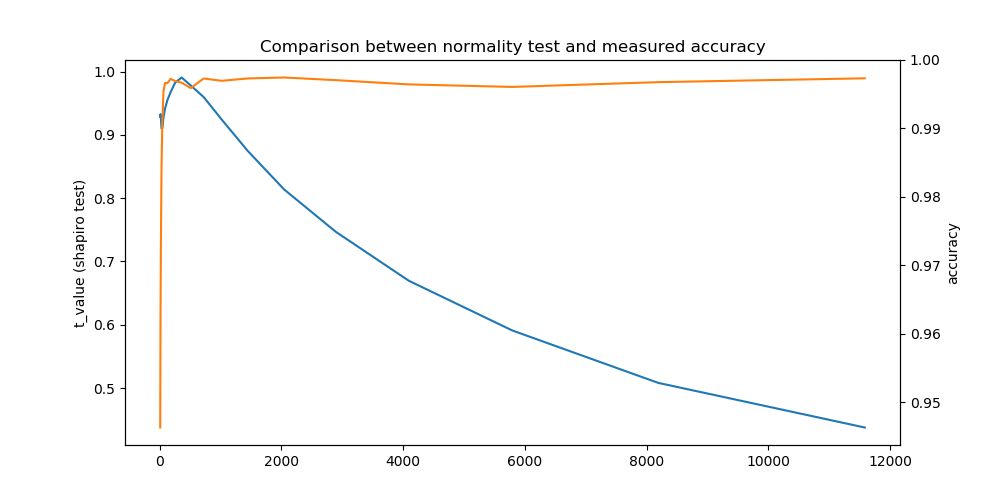
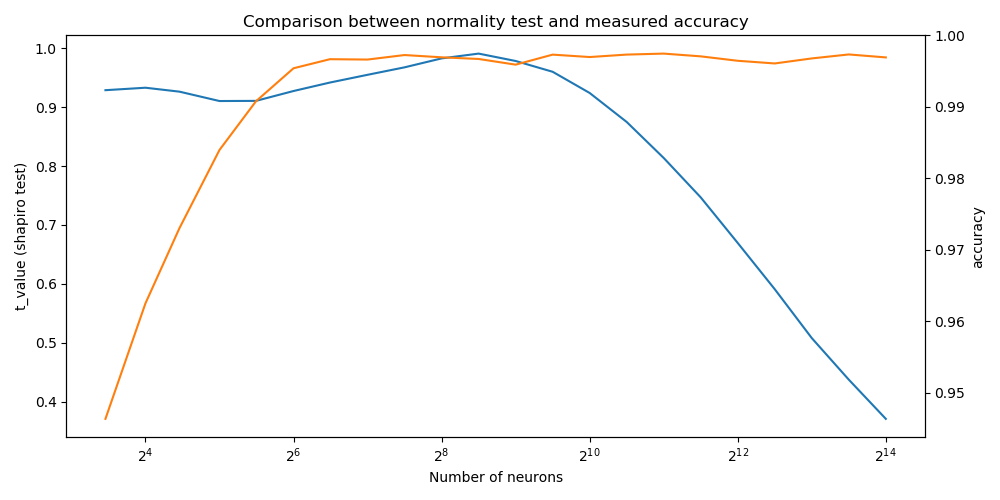
Added plots for mixture analysis

diff --git a/variance_metric.py b/variance_metric.py
@@ -10,6 +10,8 @@ import seaborn as sns
 import numpy as np
 import matplotlib.pyplot as plt
 import scipy
+from algorithms.exp_norm_mixture_fit import fit as fit_exp_norm
+from algorithms.digamma_mixture_fit import fit as fit_digamma
 
 from models.MNIST_1h import MNIST_1h
 
@@ -48,7 +50,7 @@ wrap = lambda x: x.cuda(async=True) if torch.is_tensor(x) and x.is_pinned() else
 unwrap = lambda x: x.cpu()
 
 def init_models(count=REPLICATES):
-    return [wrap(MNIST_1h(int(2**(i / 2)))) for i in range(7, 28) for _ in range(count)]
+    return [wrap(MNIST_1h(int(2**(i / 2)))) for i in range(8, 28) for _ in range(count)]
 
 def save_model(model, id):
     with open('/tmp/model-%s.data' % id, 'wb+') as f:
@@ -196,14 +198,43 @@ def plot_compare_shapiro_accuracy(activations, accuracies):
     b.plot(sizes, accuracies, color='C1')
     a.set_ylabel('t_value (shapiro test)')
     b.set_ylabel('accuracy')
-    plt.xlabel('Number of neurons')
+    plt.xscale('log', basex=2)
+    a.set_xlabel('Number of neurons')
     plt.title('Comparison between normality test and measured accuracy')
-    plot.tight_layout()
+    plt.tight_layout()
     plt.savefig('./plots/MNIST_1h_acc_vs_shapiro.png')
     plt.close()
 
+def plot_mixture_ratio(activations, accuracies):
+    n_acc = (accuracies - accuracies.min()) / (accuracies.max() - accuracies.min())
+    z_activations = [(a == 0).sum() / REPLICATES for a in activations]
+    nz_activations = [a[a != 0] for a in activations]
+    sizes = np.array([len(x) / REPLICATES for x in activations])
+    digamma_ratio = np.array([fit_digamma(x)[1] for x in nz_activations])
+    exp_norm_ratio = np.array([fit_exp_norm(x)[1] for x in nz_activations])
+    t_values = np.array([scipy.stats.shapiro(x)[0] for x in nz_activations])
+    plt.figure(figsize=(10, 5))
+    a = plt.gca()
+    b = a.twinx()
+    a.plot(sizes, digamma_ratio, color='C0', label='Digamma fitting')
+    a.plot(sizes, exp_norm_ratio, color='C1', label='Exp+Normal fitting')
+    a.plot(sizes, t_values, color='C2', label='Shapiro normality test')
+    a.plot(sizes, n_acc, color='C4', label='Normalized accuracy')
+    a.axhline(y = 0.025, color='C5', label='Arbitrary suggested threshold (p=0.05)')
+    a.legend(loc='bottom right')
+    b.plot(sizes, z_activations, color='C3', label='Dead neurons')
+    a.set_ylabel('Proportions')
+    b.set_ylabel('Number of dead neurons')
+    b.legend(loc='upper right')
+    plt.xscale('log', basex=2)
+    b.set_ylim((0, 20))
+    a.set_xlabel('Number of neurons')
+    plt.title('Comparison between multiple metrics')
+    plt.savefig('./plots/MNIST_1h_acc_vs_mixtures.png')
+    plt.close()
 
-if False and __name__ == '__main__':
+
+if __name__ == '__main__':
     models = init_models()
     train(models)
     activations = np.array(get_activations(models)).reshape(-1, REPLICATES)
@@ -215,3 +246,4 @@ if False and __name__ == '__main__':
     plot_distributions_around_sweet(activations)
     plot_dead_neurons(activations)
     plot_compare_shapiro_accuracy(activations, accuracies)
+    plot_mixture_ratio(activations, accuracies)

diff --git a/journal.md b/journal.md
@@ -133,6 +133,10 @@ If we look carefully at the distribution of the variance of activations we can s
 - [ ] Generate plots
 - [ ] Interpret and conclude
 
+# Interpretation 
+![Comparison of different metrics](/plots/MNIST_1h_acc_vs_mixtures.png?raw=true "Comparison of different metrics")
+
+
 
 
 # See if observations extrapolate on the Zalando MNIST dataset
